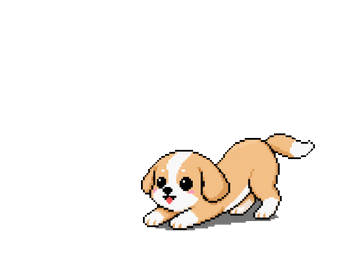
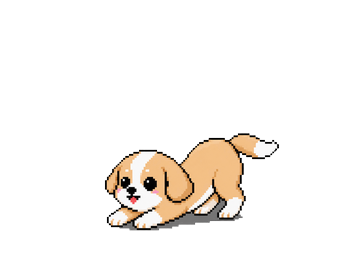
Move play alignment fix to render-time CSS offset, not baked-in pixels
Reverted play/frame1-6.png back to the simple bbox-centered crop
(no head-anchoring baked into the pixels) and instead added a new
offsetXByFrame correction on AnimationDefinition - a per-frame percent
nudge applied as a CSS translateX alongside the existing scale/mirror
transform, resolved by AnimationPlayer and threaded through the engine
snapshot same as before. Same visual fix as the last commit, done in
code instead of by re-cropping the art.

Also: bumped play's scale to 1.25 (was reading too small at its
natural size) and dropped "sit" from the click-reaction pool (also
Interaction-triggerable "shrinks" the pet, which read as a glitch).

Changed region(s): [[0.2805, 0.4621, 0.9037, 0.8375]]

diff --git a/src/pets/puppy/puppy.config.ts b/src/pets/puppy/puppy.config.ts
@@ -33,8 +33,8 @@ function framesFor(state: PetState): string[] {
 
 /** 1,2,3..n,n-1..2 - plays a cycle forward then back instead of snapping
  * from the last frame straight to the first. */
-function pingPong(frames: string[]): string[] {
-  return [...frames, ...frames.slice(0, -1).reverse()];
+function pingPong<T>(items: T[]): T[] {
+  return [...items, ...items.slice(0, -1).reverse()];
 }
 
 const DIRECTIONS: Direction[] = ["N", "NE", "E", "SE", "S", "SW", "W", "NW"];
@@ -78,7 +78,14 @@ const STATE_SCALE: Partial<Record<PetState, number>> = {
   idle: 0.96,
   wake: 0.96,
   happy: 1.15,
+  play: 1.25,
 };
+
+// Per-base-frame horizontal correction for play (percent of canvas width) -
+// the source art's bounding box isn't centered consistently frame to frame
+// (the swinging tail drags it off), so nudge each frame back in line.
+// Ping-ponged below alongside the frames themselves to keep indices aligned.
+const PLAY_OFFSET_X_PERCENT: number[] = [10.2, 10.5, 10.2, 10.2, 11.3, 6.5];
 
 const animations: AnimationDefinition[] = PUPPY_STATES.map((name) => ({
   name,
@@ -95,6 +102,7 @@ const animations: AnimationDefinition[] = PUPPY_STATES.map((name) => ({
   fps: PUPPY_FPS_BY_STATE[name],
   loop: name !== "surprised",
   ...(STATE_SCALE[name] !== undefined ? { scale: STATE_SCALE[name] } : {}),
+  ...(name === "play" ? { offsetXByFrame: pingPong(PLAY_OFFSET_X_PERCENT) } : {}),
   ...(name === "walk"
     ? {
         framesByDirection: WALK_FRAMES_BY_DIRECTION,

diff --git a/src/renderer/pet/PetCanvas.tsx b/src/renderer/pet/PetCanvas.tsx
@@ -1,7 +1,7 @@
 import { forwardRef, useImperativeHandle, useRef } from "react";
 
 export interface PetCanvasHandle {
-  applyFrame(frameSrc: string | undefined, mirrored: boolean, scale: number): void;
+  applyFrame(frameSrc: string | undefined, mirrored: boolean, scale: number, offsetXPercent: number): void;
 }
 
 interface PetCanvasProps {
@@ -20,7 +20,7 @@ export const PetCanvas = forwardRef<PetCanvasHandle, PetCanvasProps>(function Pe
   const imgRef = useRef<HTMLImageElement>(null);
 
   useImperativeHandle(ref, () => ({
-    applyFrame(frameSrc, mirrored, scale) {
+    applyFrame(frameSrc, mirrored, scale, offsetXPercent) {
       const img = imgRef.current;
       if (!img) return;
       if (frameSrc && img.src !== frameSrc) img.src = frameSrc;
@@ -28,7 +28,10 @@ export const PetCanvas = forwardRef<PetCanvasHandle, PetCanvasProps>(function Pe
       // off the ground line - mirrors how the sprite sheet itself is
       // bottom-anchored.
       img.style.transformOrigin = "50% 100%";
-      img.style.transform = `scale(${mirrored ? -scale : scale}, ${scale})`;
+      // translateX first (in the frame's own original orientation), then
+      // scale/mirror - so a mirrored frame's offset flips direction along
+      // with it, still compensating correctly.
+      img.style.transform = `scale(${mirrored ? -scale : scale}, ${scale}) translateX(${offsetXPercent}%)`;
     },
   }));
 

diff --git a/src/engine/PetEngine.ts b/src/engine/PetEngine.ts
@@ -38,6 +38,8 @@ export interface PetSnapshot {
   scale: number;
   /** Whether the current frame should render horizontally flipped. */
   mirrored: boolean;
+  /** Per-frame horizontal nudge, percent of canvas width (0 = none). */
+  offsetXPercent: number;
   /** Current speech-bubble text, or null when the pet isn't saying anything. */
   speechText: string | null;
 }
@@ -191,6 +193,7 @@ export class PetEngine {
         isDragging: true,
         scale: this.animation.getCurrentScale(),
         mirrored: this.animation.getCurrentMirror(this.movement.getHorizontalBias()),
+        offsetXPercent: this.animation.getCurrentOffsetXPercent(),
         speechText: this.speech.current,
       };
     }
@@ -210,6 +213,7 @@ export class PetEngine {
         isDragging: false,
         scale: this.animation.getCurrentScale(),
         mirrored: this.animation.getCurrentMirror(this.movement.getHorizontalBias()),
+        offsetXPercent: this.animation.getCurrentOffsetXPercent(),
         speechText: this.speech.current,
       };
     }
@@ -224,6 +228,7 @@ export class PetEngine {
       isDragging: false,
       scale: this.animation.getCurrentScale(),
       mirrored: this.animation.getCurrentMirror(this.movement.getHorizontalBias()),
+      offsetXPercent: this.animation.getCurrentOffsetXPercent(),
       speechText: this.speech.current,
     };
   }

diff --git a/src/engine/InteractionController.ts b/src/engine/InteractionController.ts
@@ -18,7 +18,6 @@ const REACTION_PHRASES: Partial<Record<PetState, string[]>> = {
   surprised: ["앗!", "깜짝이야!", "엥?!"],
   happy: ["좋아!", "히히", "신난다!"],
   petted: ["음~ 좋다", "더 만져줘", "기분 좋아"],
-  sit: ["네!", "여기 앉을래"],
   lookAround: ["음?", "뭐지?"],
   play: ["같이 놀자!", "놀자!", "재밌다!"],
 };
@@ -59,7 +58,6 @@ export class InteractionController {
       { state: "surprised", weight: 20, durationMs: 500 },
       { state: "happy", weight: 15 + friendliness * 10, durationMs: 1200 },
       { state: "petted", weight: 15 + friendliness * 15, durationMs: 1400 },
-      { state: "sit", weight: 15, durationMs: 2000 },
       { state: "lookAround", weight: 10, durationMs: 1500 },
       { state: "play", weight: 10 + playfulness * 15, durationMs: 12000 }, // several loops of the play animation cycle
     ];

diff --git a/src/types/pet.ts b/src/types/pet.ts
@@ -39,6 +39,12 @@ export interface AnimationDefinition {
    * east-facing cycle that's really just the west-facing art flipped,
    * reusing one authored gait cycle for both directions. */
   mirrorByDirection?: Partial<Record<Direction, boolean>>;
+  /** Per-frame horizontal nudge, as a percent of the sprite canvas width
+   * (matches this state's `frames` array index-for-index) - corrects source
+   * art whose subject isn't centered consistently frame to frame (e.g. a
+   * swinging tail dragging the whole bounding box off-center) without
+   * touching the sprite pixels themselves. */
+  offsetXByFrame?: number[];
 }
 
 /**

diff --git a/src/engine/AnimationPlayer.ts b/src/engine/AnimationPlayer.ts
@@ -67,6 +67,12 @@ export class AnimationPlayer {
     return def.framesByDirection?.[this.direction] ?? def.frames;
   }
 
+  /** Horizontal nudge for the current frame, as a percent of canvas width (0 = none). */
+  getCurrentOffsetXPercent(): number {
+    const def = this.definitions.get(this.current);
+    return def?.offsetXByFrame?.[this.frameIndex] ?? 0;
+  }
+
   update(dtMs: number) {
     const def = this.definitions.get(this.current);
     if (!def) return;

diff --git a/src/renderer/pet/PetRenderer.tsx b/src/renderer/pet/PetRenderer.tsx
@@ -42,7 +42,7 @@ export function PetRenderer() {
         lastTs = ts;
 
         const snapshot = engine.update(dt);
-        canvasRef.current?.applyFrame(snapshot.frameSrc, snapshot.mirrored, snapshot.scale);
+        canvasRef.current?.applyFrame(snapshot.frameSrc, snapshot.mirrored, snapshot.scale, snapshot.offsetXPercent);
 
         if (snapshot.speechText !== lastSpeech.current) {
           lastSpeech.current = snapshot.speechText;
